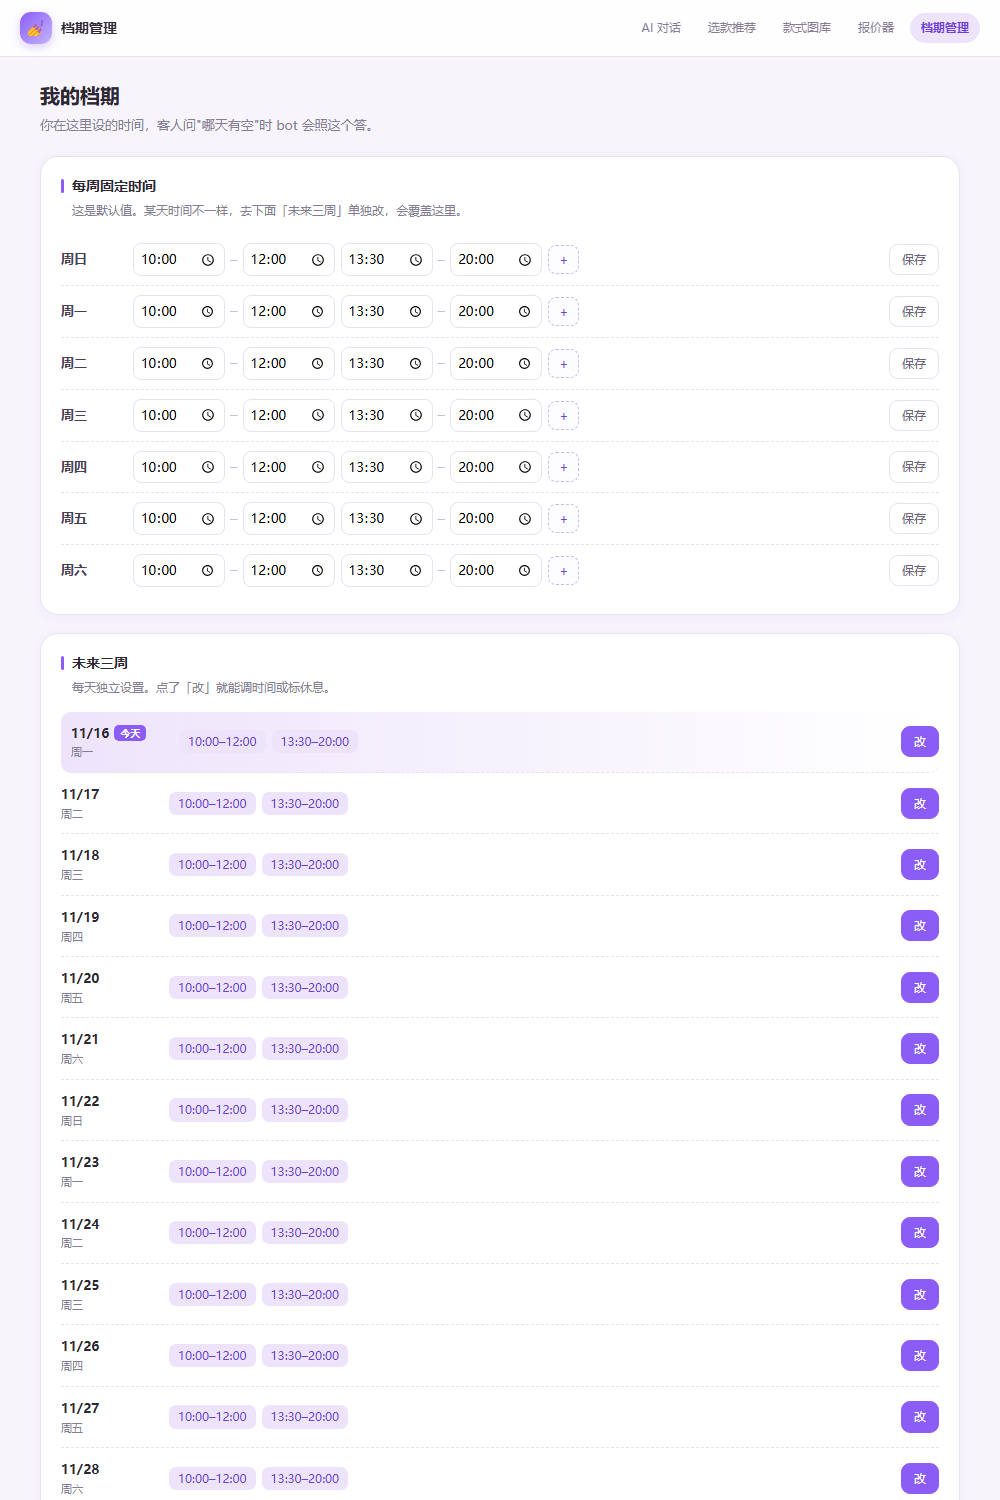
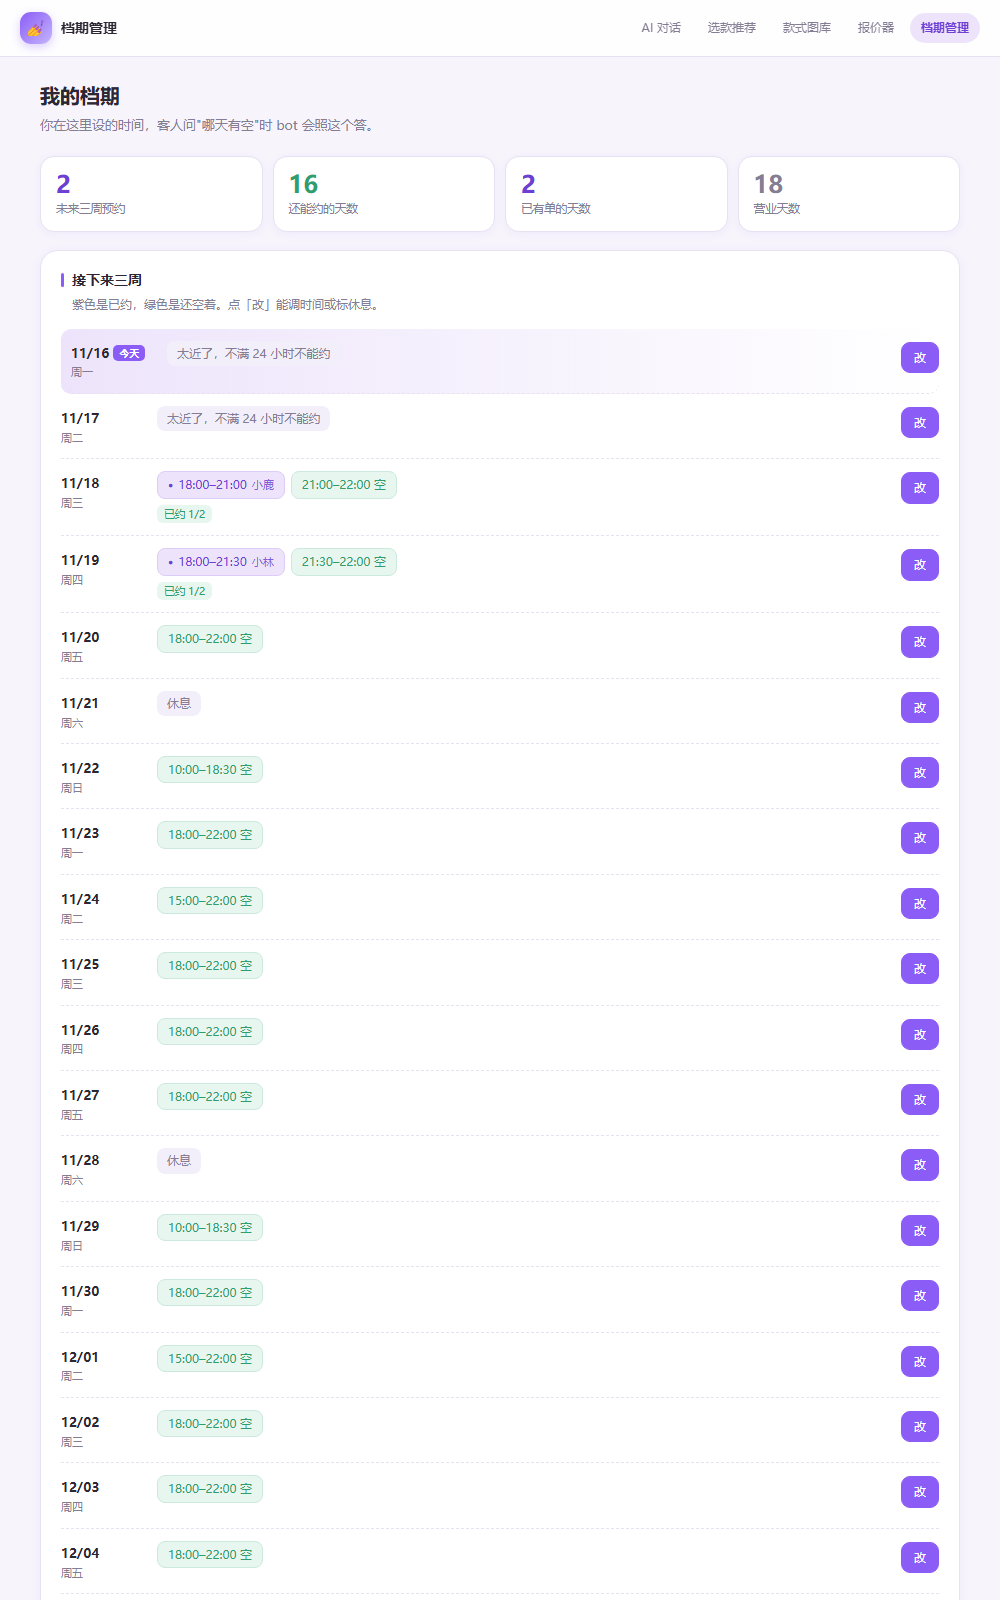
档期看板：可视化空闲/已约、统计卡片、提前量过滤

diff --git a/web/schedule.html b/web/schedule.html
@@ -53,6 +53,18 @@
   .card h2::before { content: ""; width: 3px; height: 14px; background: var(--purple); border-radius: 2px; }
   .card .hint { font-size: 12px; color: var(--muted); margin: 0 0 14px 11px; }
 
+  /* 概览统计 */
+  .stats { display: grid; grid-template-columns: repeat(4, 1fr); gap: 10px; margin-bottom: 18px; }
+  @media (max-width: 620px) { .stats { grid-template-columns: repeat(2, 1fr); } }
+  .stat {
+    background: var(--card); border: 1px solid var(--line); border-radius: 14px;
+    padding: 13px 15px; box-shadow: 0 2px 10px rgba(109,63,212,.05);
+  }
+  .stat .n { font-size: 24px; font-weight: 700; color: var(--purple-deep); line-height: 1.2; }
+  .stat .n.green { color: var(--ok); }
+  .stat .n.muted { color: var(--muted); }
+  .stat .l { font-size: 11.5px; color: var(--muted); margin-top: 1px; }
+
   /* 每周固定 */
   .week-row {
     display: grid; grid-template-columns: 62px 1fr auto; gap: 10px;
@@ -84,26 +96,34 @@
 
   /* 未来几天 */
   .day {
-    display: grid; grid-template-columns: 96px 1fr auto; gap: 12px;
-    align-items: center; padding: 11px 0; border-bottom: 1px dashed var(--line);
+    display: grid; grid-template-columns: 84px 1fr auto; gap: 12px;
+    align-items: start; padding: 12px 0; border-bottom: 1px dashed var(--line);
   }
   .day:last-child { border-bottom: none; }
   .day.today { background: linear-gradient(90deg, var(--purple-soft), transparent); border-radius: 10px; padding-left: 10px; }
-  .d-date { font-size: 13px; font-weight: 600; }
+  .d-date { font-size: 13px; font-weight: 600; padding-top: 2px; }
   .d-date small { display: block; font-size: 11px; color: var(--muted); font-weight: 400; }
   .d-today-tag {
     font-size: 10px; background: var(--purple); color: #fff; padding: 1px 6px;
-    border-radius: 5px; margin-left: 5px; vertical-align: 1px;
+    border-radius: 5px; margin-left: 4px; vertical-align: 1px;
   }
-  .d-body { display: flex; flex-wrap: wrap; gap: 6px; align-items: center; min-width: 0; }
-  .slot {
-    font-size: 12px; background: var(--purple-soft); color: var(--purple-deep);
-    padding: 2px 9px; border-radius: 7px; font-variant-numeric: tabular-nums;
+  .d-body { min-width: 0; }
+  .d-blocks { display: flex; flex-wrap: wrap; gap: 6px; align-items: center; }
+  .blk {
+    font-size: 12px; padding: 3px 10px; border-radius: 8px;
+    font-variant-numeric: tabular-nums; display: inline-flex; align-items: center; gap: 5px;
   }
-  .d-off { font-size: 12px; color: var(--muted); background: #f3effa; padding: 2px 9px; border-radius: 7px; }
-  .d-ov { font-size: 11px; color: var(--warn); background: var(--warn-bg); padding: 1px 7px; border-radius: 6px; }
-  .d-orders { font-size: 11.5px; color: var(--ok); background: var(--ok-bg); padding: 1px 8px; border-radius: 6px; }
-  .d-actions { display: flex; gap: 6px; }
+  .blk.free { background: var(--ok-bg); color: var(--ok); border: 1px solid #cbeadd; }
+  .blk.taken { background: var(--purple-soft); color: var(--purple-deep); border: 1px solid #dcccf7; }
+  .blk.taken::before { content: "●"; font-size: 8px; }
+  .blk .who { font-size: 11px; opacity: .82; }
+  .d-off { font-size: 12px; color: var(--muted); background: #f3effa; padding: 3px 10px; border-radius: 8px; }
+  .d-note { font-size: 11.5px; color: var(--muted); margin-top: 6px; }
+  .d-tags { display: flex; gap: 5px; flex-wrap: wrap; margin-top: 6px; }
+  .d-ov { font-size: 10.5px; color: var(--warn); background: var(--warn-bg); padding: 1px 7px; border-radius: 6px; }
+  .d-full { font-size: 10.5px; color: var(--danger); background: var(--danger-bg); padding: 1px 7px; border-radius: 6px; }
+  .d-cnt { font-size: 10.5px; color: var(--ok); background: var(--ok-bg); padding: 1px 7px; border-radius: 6px; }
+  .d-actions { display: flex; gap: 6px; padding-top: 1px; }
   .btn-s {
     font: inherit; font-size: 12px; padding: 5px 12px; border-radius: 9px;
     border: 1px solid var(--line); background: #fff; color: #6b6478; cursor: pointer;
@@ -184,16 +204,18 @@
   <h1>我的档期</h1>
   <div class="sub">你在这里设的时间，客人问"哪天有空"时 bot 会照这个答。</div>
 
+  <div class="stats" id="stats"></div>
+
   <div class="card">
-    <h2>每周固定时间</h2>
-    <p class="hint">这是默认值。某天时间不一样，去下面「未来三周」单独改，会覆盖这里。</p>
-    <div id="weekly"></div>
+    <h2>接下来三周</h2>
+    <p class="hint">紫色是已约，绿色是还空着。点「改」能调时间或标休息。</p>
+    <div id="days"></div>
   </div>
 
   <div class="card">
-    <h2>未来三周</h2>
-    <p class="hint">每天独立设置。点了「改」就能调时间或标休息。</p>
-    <div id="days"></div>
+    <h2>每周固定时间</h2>
+    <p class="hint">这是默认值。某天时间不一样，去上面点「改」单独设置，会覆盖这里。</p>
+    <div id="weekly"></div>
   </div>
 
   <div class="card">
@@ -238,6 +260,7 @@ async function load() {
   const r = await fetch("/api/schedule").then((x) => x.json());
   if (r.error) { toast("读取失败：" + r.error); return; }
   DATA = r;
+  renderStats();
   renderWeekly();
   renderDays();
   renderOrders();
@@ -302,18 +325,55 @@ async function postWeekly(weekday, ranges) {
 }
 
 /* ---------- 未来三周 ---------- */
+function renderStats() {
+  const days = DATA.days;
+  const open = days.filter((d) => !d.closed);
+  const booked = days.filter((d) => d.orderCount > 0);
+  const free = days.filter((d) => !d.closed && !d.full && d.freeSegments.length);
+  const totalOrders = days.reduce((s, d) => s + d.orderCount, 0);
+  $("stats").innerHTML = `
+    <div class="stat"><div class="n">${totalOrders}</div><div class="l">未来三周预约</div></div>
+    <div class="stat"><div class="n green">${free.length}</div><div class="l">还能约的天数</div></div>
+    <div class="stat"><div class="n">${booked.length}</div><div class="l">已有单的天数</div></div>
+    <div class="stat"><div class="n muted">${open.length}</div><div class="l">营业天数</div></div>`;
+}
+
 function renderDays() {
+  if (!DATA.days.some((d) => !d.closed)) {
+    $("days").innerHTML = `<div class="empty-tip">还没设营业时间。去下面「每周固定时间」填一下。</div>`;
+    return;
+  }
+
   $("days").innerHTML = DATA.days
     .map((d) => {
-      const slots = d.closed
-        ? `<span class="d-off">休息</span>`
-        : d.ranges.map((r) => `<span class="slot">${r[0]}–${r[1]}</span>`).join("");
-      const orders = d.orderCount ? `<span class="d-orders">已约 ${d.orderCount} 单</span>` : "";
-      const ov = d.overridden ? `<span class="d-ov">单独设置</span>` : "";
       const md = d.date.slice(5).replace("-", "/");
+      let body;
+
+      if (d.closed) {
+        body = `<div class="d-blocks"><span class="d-off">休息</span></div>`;
+      } else {
+        const blocks = [
+          ...d.takenSegments.map(
+            (t) => `<span class="blk taken">${t.start}–${t.end} <span class="who">${t.name || ""}</span></span>`
+          ),
+          ...d.freeSegments.map((f) => `<span class="blk free">${f[0]}–${f[1]} 空</span>`),
+        ];
+        const hint = d.tooSoon
+          ? `<span class="d-off">太近了，不满 ${d.noticeHours} 小时不能约</span>`
+          : "";
+        body = `<div class="d-blocks">${blocks.join("") || hint || '<span class="d-off">无可用时段</span>'}</div>`;
+
+        const tags = [];
+        if (d.orderCount) tags.push(`<span class="d-cnt">已约 ${d.orderCount}/${d.maxPerDay}</span>`);
+        if (d.full && d.orderCount) tags.push(`<span class="d-full">已约满</span>`);
+        if (d.overridden) tags.push(`<span class="d-ov">单独设置</span>`);
+        if (tags.length) body += `<div class="d-tags">${tags.join("")}</div>`;
+        if (d.note) body += `<div class="d-note">${d.note}</div>`;
+      }
+
       return `<div class="day${d.isToday ? " today" : ""}">
         <div class="d-date">${md}${d.isToday ? '<span class="d-today-tag">今天</span>' : ""}<small>${d.weekday}</small></div>
-        <div class="d-body">${slots}${orders}${ov}</div>
+        <div class="d-body">${body}</div>
         <div class="d-actions"><button class="btn-s primary" data-edit="${d.date}">改</button></div>
       </div>`;
     })
